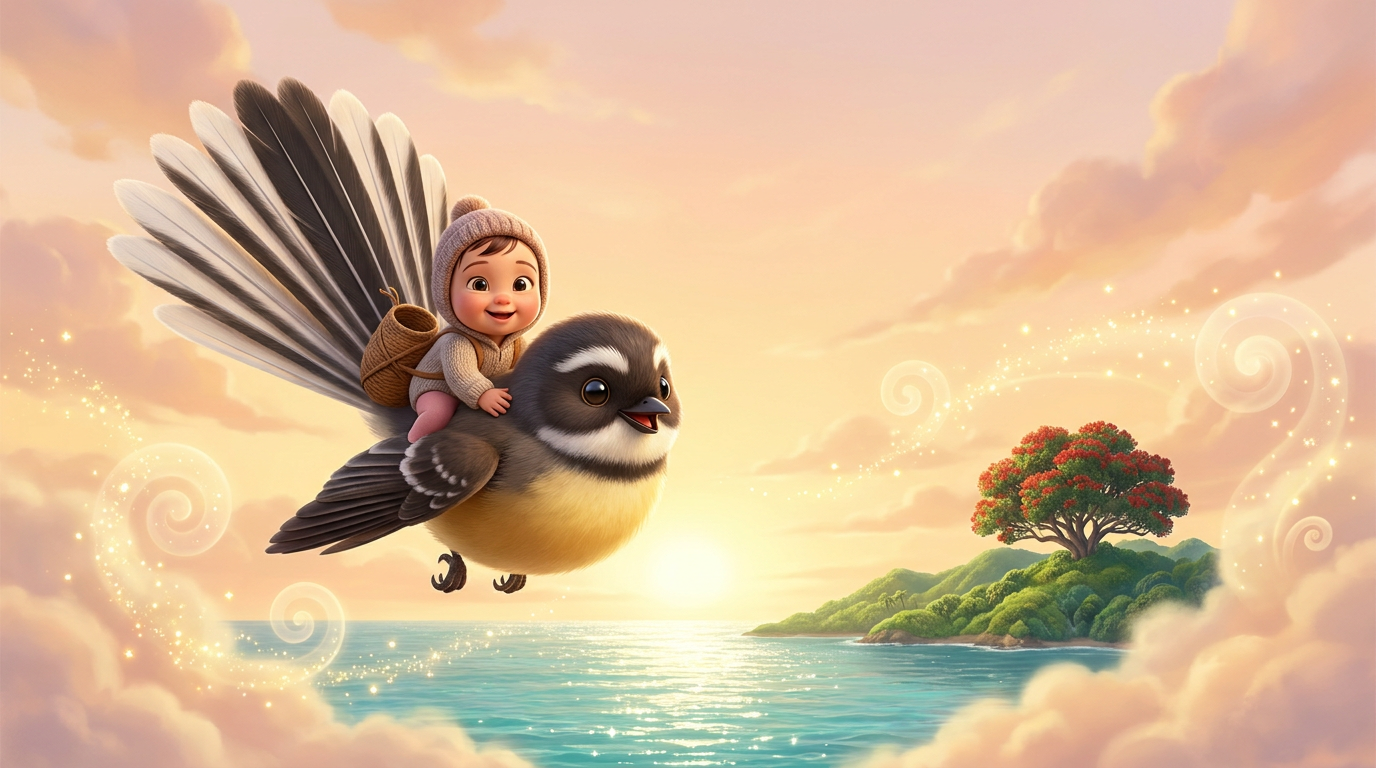
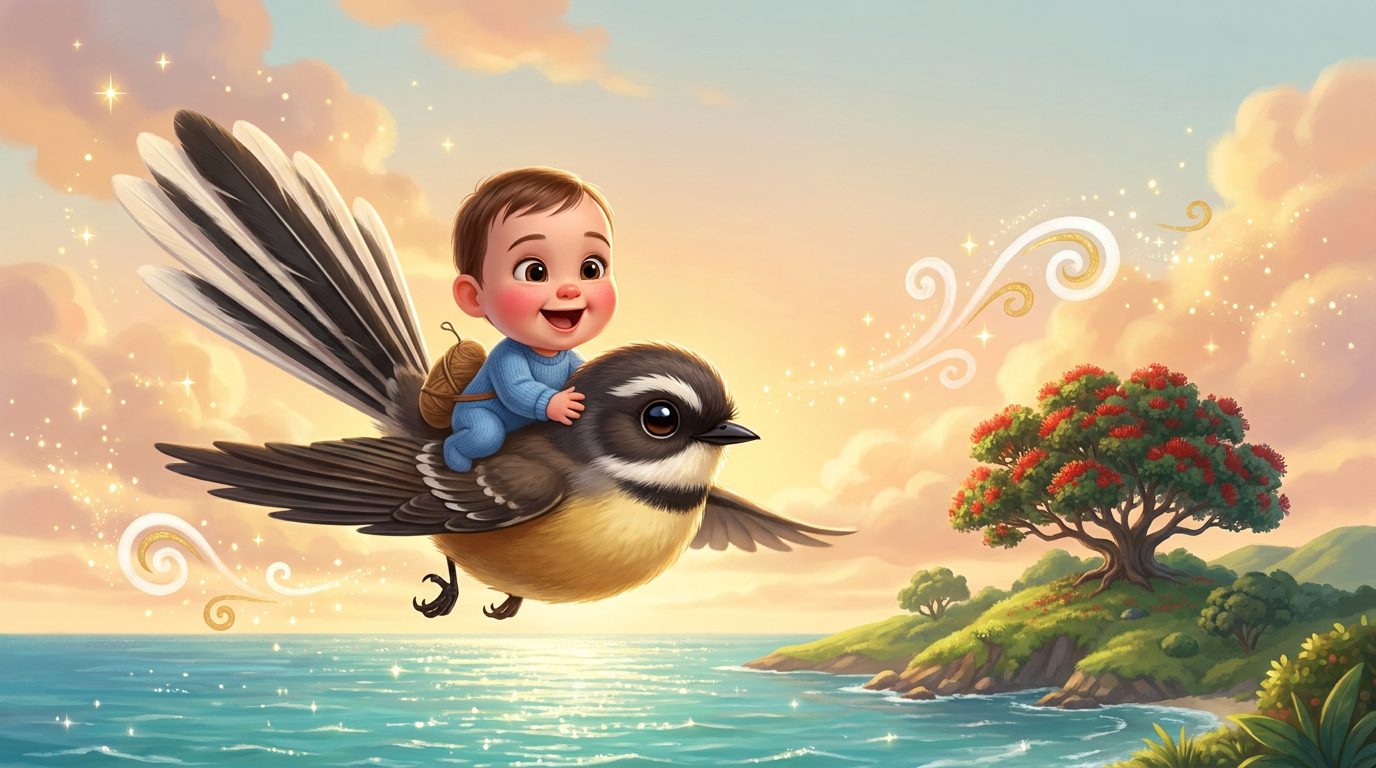
Surprise/flight: on-model scene art for all 15 frames + agent landing spots
- 30 scene images (15 frames x portrait+landscape) generated on-model from
  june-master.jpg; June consistent throughout, full cast per locked descriptors,
  cocoon rendered as a soft silk chrysalis (no more snail shell)
- Cover regenerated on-model (June matches master)
- story.ts: wire real scene paths, replacing placeholders
- memory: document the still -> fal.ai genvid -> ffmpeg video pipeline
- audio/ + video/ NOTES.md: lanes + landing spots for the parallel
  audio and video agents

diff --git a/app/surprise/flight/story.ts b/app/surprise/flight/story.ts
@@ -29,12 +29,12 @@ export interface Frame {
   landscape: string;
 }
 
-// Placeholder art shared by every frame until real scene art is generated.
-const PH_PORTRAIT = "/surprise/style-tests/3-pixar3d.jpg";
-const PH_LANDSCAPE = "/surprise/style-tests/3-pixar3d-wide.jpg";
-
-/** Real art will live here once generated: /surprise/flight/scenes/1A-portrait.jpg etc. */
-const art = (_id: string) => ({ portrait: PH_PORTRAIT, landscape: PH_LANDSCAPE });
+// Scene art: portrait (9:16, phones) + landscape (16:9, desktop) per frame,
+// generated on-model from june-master.jpg. Files in public/surprise/flight/scenes/.
+const art = (id: string) => ({
+  portrait: `/surprise/flight/scenes/${id}-portrait.jpg`,
+  landscape: `/surprise/flight/scenes/${id}-wide.jpg`,
+});
 
 // Locked character descriptors (for the art phase — paste word-for-word into
 // each frame's prompt). Kept here so the story and its art stay in one place.

diff --git a/memory/juniper-storybook.md b/memory/juniper-storybook.md
@@ -104,3 +104,29 @@ haere rā → `high-reh RAH`.
 - June ages newborn → ~1yr across slides; keep master face, age-appropriate.
 - Narration **speed pick** (1.10/1.18) still pending.
 - All art still to be generated from `june-master.jpg`.
+
+## 🎬 Video production pipeline (how we make the short "movie")
+
+Each story is ALSO compiled into a short narrated video (not only the
+scroll-web experience). The web stills double as the video's keyframes.
+
+**Pipeline (still → motion → film):**
+1. **Stills** — generate each scene with Nano Banana Pro (`image-gen` skill /
+   `generate.sh`), June locked to `june-master.jpg` (pass it as the reference).
+   Both 9:16 + 16:9. These are the keyframes.
+2. **Motion** — animate each still into a short clip with **fal.ai** (user has it
+   connected). Use the global **`genvid`** CLI (`genvid` skill → fal.ai Seedance,
+   image-to-video; defaults Pro/1080p). One short clip per scene/frame; describe
+   the camera move + gentle subject motion in the prompt.
+3. **Stitch** — concatenate the per-scene clips in order, lay the ElevenLabs
+   narration (Kylee NZ) over the top, burn/sync the subtitles, and add gentle
+   crossfades, into one short film (ffmpeg).
+
+**Notes / conventions:**
+- "Lots of little frame shots, made together" = generate many short scene clips,
+  then assemble — don't try to one-shot a long video.
+- Keep character consistency: motion clips inherit the still's locked June face;
+  don't let the video model drift her features.
+- fal.ai usage is via the user's connected account — never hard-code keys.
+- Book 2 (`flight`) is the current pilot for this pipeline; the same steps apply
+  to every book on the shelf.

diff --git a/public/surprise/flight/video/NOTES.md b/public/surprise/flight/video/NOTES.md
@@ -1,0 +1,24 @@
+# Book 2 — short video / "the movie" (`flight`)
+
+Landing spot for the **video pipeline agent**. Read first:
+- `memory/juniper-storybook.md` → "Video production pipeline" section.
+- `app/surprise/CLAUDE.md` — stay in your lane.
+
+## Pipeline (still → motion → film)
+1. Animate each scene's `…/scenes/<id>-wide.jpg` keyframe into a short clip with
+   the `genvid` skill (fal.ai Seedance, Pro/1080p). Gentle camera move + subtle
+   subject motion; keep June's face stable. → `clips/<id>.mp4`
+2. Stitch `1A→5C` with ffmpeg → `the-fantail-who-flew-her-home.mp4`: narration
+   `…/audio/<id>.mp3` over each clip, ~0.3s crossfades, burn-in subtitles from
+   the verses (two lines at a time).
+
+## Dependencies
+- Needs the scene stills committed first (the book-2 agent will confirm).
+- Narration mp3s ideally present; if not, make a silent cut and note it.
+
+## Lane
+Only write files in this folder. Don't edit `story.ts`, components, the registry,
+the stills, the audio, or any other book.
+
+## Requests for the book-2 (code) agent
+- _(none yet)_

diff --git a/public/surprise/flight/audio/NOTES.md b/public/surprise/flight/audio/NOTES.md
@@ -1,0 +1,18 @@
+# Book 2 — narration audio (`flight`)
+
+Landing spot for the **audio agent**. See the brief and the rules first:
+- `memory/juniper-storybook.md` — voice (Kylee NZ, `pcKdPWtbF6bM9o7NHjCI`),
+  settings, Māori pronunciation map, speed pick (1.10 vs 1.18 TBD).
+- `app/surprise/CLAUDE.md` — stay in your lane.
+
+## What goes here
+- `<id>.mp3` — one narration clip per frame (`1A.mp3` … `5C.mp3`), matching the
+  paths already referenced in `app/surprise/flight/story.ts`.
+- `<id>.json` — ElevenLabs word/char timestamps per clip (for subtitle sync).
+
+## Lane
+Only write files in this folder. Don't edit `story.ts`, components, the registry,
+or any other book. Need a code change? Add it to this file as a request below.
+
+## Requests for the book-2 (code) agent
+- _(none yet)_
